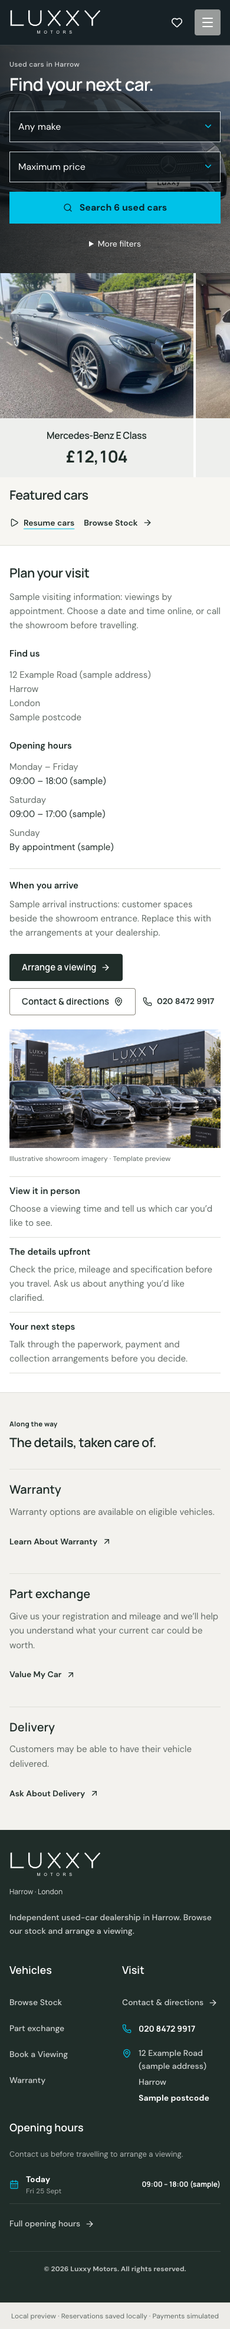
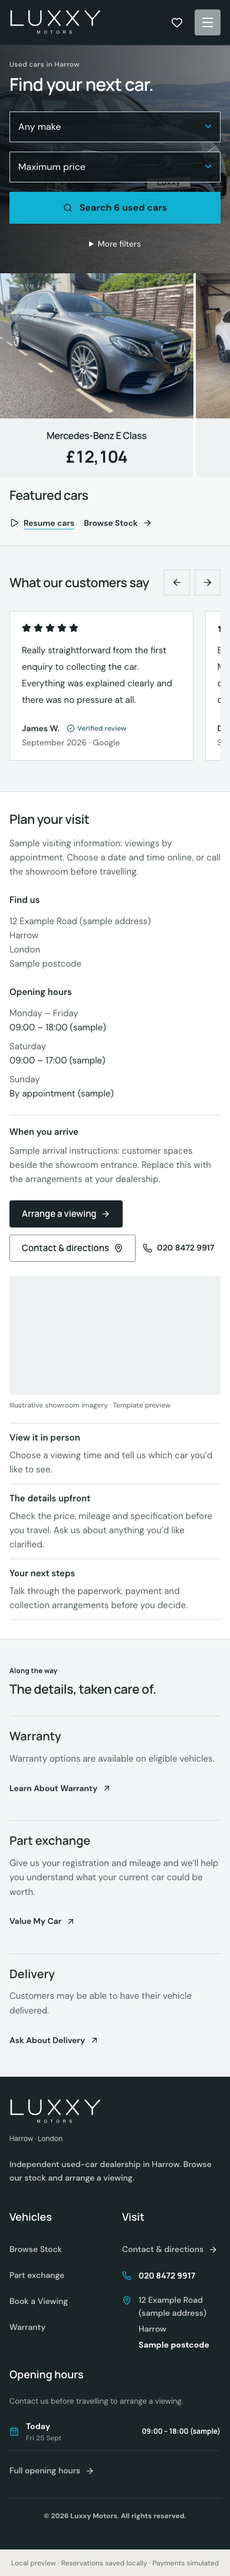
Add review verification badges and balance homepage colours

diff --git a/artifacts/luxxy-motors/src/components/reviews-settings.tsx b/artifacts/luxxy-motors/src/components/reviews-settings.tsx
@@ -12,8 +12,9 @@ export function parseReviews(text: string): Review[] {
       typeof item.review !== 'string' || !item.review.trim() || item.review.length > 5000 ||
       typeof item.name !== 'string' || !item.name.trim() || item.name.length > 150 ||
       typeof item.date !== 'string' || item.date.length > 100 ||
-      typeof item.source !== 'string' || item.source.length > 100) throw new Error(`Review ${index + 1}: supply a rating from 1–5, review text, name, date and source.`);
-    return { rating: item.rating, review: item.review, name: item.name, date: item.date, source: item.source };
+      typeof item.source !== 'string' || item.source.length > 100 ||
+      (item.verified !== undefined && typeof item.verified !== 'boolean') || (item.invited !== undefined && typeof item.invited !== 'boolean')) throw new Error(`Review ${index + 1}: supply a rating from 1–5, review text, name, date and source.`);
+    return { rating: item.rating, review: item.review, name: item.name, date: item.date, source: item.source, ...(item.verified !== undefined ? { verified: item.verified } : {}), ...(item.invited !== undefined ? { invited: item.invited } : {}) };
   });
 }
 export function ReviewsSettings({ value, onChange }: { value?: DealerPresentation; onChange: (value: DealerPresentation) => void }) {
@@ -25,7 +26,7 @@ export function ReviewsSettings({ value, onChange }: { value?: DealerPresentatio
     <h3 className="font-semibold">Customer reviews</h3>
     <label className="flex min-h-11 items-center gap-3"><input type="checkbox" checked={value?.reviewsEnabled === true} onChange={event => onChange({ ...value, reviewsEnabled: event.target.checked })} />Show customer reviews on the homepage</label>
     <label htmlFor="customer-reviews-json" className="block text-sm font-medium">Reviews JSON</label>
-    <p id="reviews-json-help" className="text-sm text-muted-foreground">Paste an array containing rating, review, name, date and source. Reviews display in this order. Apply the JSON, then save settings. Use [] to clear them.</p>
+    <p id="reviews-json-help" className="text-sm text-muted-foreground">Paste an array containing rating, review, name, date and source. Reviews display in this order. Optional verified and invited fields accept true or false. Only mark verified when confirmed. Apply the JSON, then save settings. Use [] to clear them.</p>
     <Textarea id="customer-reviews-json" aria-describedby="reviews-json-help" rows={8} value={text} onChange={event => { setText(event.target.value); setMessage(''); }} className="font-mono text-xs" />
     <Button type="button" variant="outline" onClick={() => { try { const reviews = parseReviews(text); onChange({ ...value, reviews }); setMessage(`${reviews.length} reviews applied. Save settings to keep your changes.`); } catch (error) { setMessage(error instanceof SyntaxError ? 'Invalid JSON. Check quotation marks and commas.' : (error as Error).message); } }}>Apply reviews JSON</Button>
     {message && <p role="status" className="text-sm">{message}</p>}

diff --git a/artifacts/luxxy-motors/src/components/customer-reviews.tsx b/artifacts/luxxy-motors/src/components/customer-reviews.tsx
@@ -1,5 +1,5 @@
 import { useRef, useState } from 'react';
-import { ArrowLeft, ArrowRight, Star } from 'lucide-react';
+import { ArrowLeft, ArrowRight, Star, BadgeCheck } from 'lucide-react';
 import { useDealerSettings } from '@/lib/dealer-settings-context';
 
 export function CustomerReviews() {
@@ -31,7 +31,7 @@ export function CustomerReviews() {
           </div>
           <blockquote className={`mt-4 text-[15px] leading-7 ${expanded.has(index) || review.review.length <= 180 ? '' : 'line-clamp-4'}`}>{review.review}</blockquote>
           {review.review.length > 180 && <button type="button" aria-expanded={expanded.has(index)} className="mt-1 min-h-11 self-start text-sm underline underline-offset-4" onClick={() => setExpanded(current => {const next = new Set(current); next.has(index) ? next.delete(index) : next.add(index); return next;})}>{expanded.has(index) ? 'Show less' : 'Read full review'}</button>}
-          <div className="mt-auto pt-6"><p className="text-sm font-semibold">{review.name}</p><p className="mt-1 text-sm text-muted-foreground">{review.date}{review.source && ` · ${review.source}`}</p></div>
+          <div className="mt-auto pt-6"><div className="flex flex-wrap items-center gap-x-3 gap-y-2"><p className="text-sm font-semibold">{review.name}</p>{review.verified && <span className="review-verification" title="Verification confirmed by the dealership"><BadgeCheck size={14} aria-hidden="true" />Verified review</span>}{review.invited && <span className="review-invited">Invited</span>}</div><p className="mt-1 text-sm text-muted-foreground">{review.date}{review.source && ` · ${review.source}`}</p></div>
         </li>)}
       </ul>
       {content.reviewsUrl && <a href={content.reviewsUrl} target="_blank" rel="noopener noreferrer" className="text-link mt-5">Read all reviews <ArrowRight size={16} /></a>}

diff --git a/artifacts/luxxy-motors/src/index.css b/artifacts/luxxy-motors/src/index.css
@@ -437,3 +437,29 @@ body:has(.homepage-refined) footer#contact > div > div:last-child { margin-top: 
 .review-panel { display: flex; flex-direction: column; flex: 0 0 calc((100% - 40px) / 3); scroll-snap-align: start; border: 1px solid hsl(var(--border)); padding: 24px; }
 @media (max-width: 1023px) { .review-panel { flex-basis: calc((100% - 20px) / 2); } }
 @media (max-width: 639px) { .review-panel { flex-basis: 88%; padding: 20px; } }
+
+/* Balanced homepage palette: cool charcoal, clean white and restrained cyan. */
+body:has(.homepage-refined) header,
+body:has(.homepage-refined) footer,
+.homepage-refined {
+ --primary: 195 22% 13%;
+ --foreground: 195 22% 13%;
+ --card-foreground: 195 22% 13%;
+ --muted-foreground: 195 7% 36%;
+ --background: 195 14% 97%;
+ --secondary: 195 14% 94%;
+ --border: 195 10% 85%;
+ --accent: 190 86% 44%;
+ --accent-foreground: 195 35% 10%;
+}
+.homepage-refined .customer-reviews { background: #f3f6f6; }
+.homepage-refined .review-panel { background: #fff; }
+.homepage-refined .rolling-stock .vehicle-card,
+.homepage-refined .rolling-stock .vehicle-card-details { background: #eef2f2; }
+.homepage-refined .home-services { background: #f3f6f6; }
+.homepage-refined .hero-search-submit { background: hsl(var(--accent)); color: hsl(var(--accent-foreground)); }
+.homepage-refined .hero-search-submit:hover { background: #25c4dc; }
+.homepage-refined .text-link:hover { text-decoration-color: hsl(var(--accent)); }
+.review-verification { display: inline-flex; align-items: center; gap: 4px; color: #285e66; font-size: 12px; font-weight: 500; }
+.review-invited { border-left: 1px solid hsl(var(--border)); padding-left: 8px; color: hsl(var(--muted-foreground)); font-size: 12px; }
+body:has(.homepage-refined) header.stock-home-header { --primary: 0 0% 100%; --primary-foreground: 195 22% 13%; }

diff --git a/artifacts/luxxy-motors/src/components/customer-reviews.test.tsx b/artifacts/luxxy-motors/src/components/customer-reviews.test.tsx
@@ -13,11 +13,13 @@ it('does not show an empty or disabled reviews section', () => {
 });
 it('preserves long reviews with expansion and no fabricated aggregate or link', () => {
   const review = 'Excellent service. '.repeat(20);
-  state.presentation = { reviewsEnabled: true, reviews: [{ rating: 4, review, name: 'Customer', date: 'September 2026', source: 'Google' }] };
+  state.presentation = { reviewsEnabled: true, reviews: [{ rating: 4, review, name: 'Customer', date: 'September 2026', source: 'Google', verified: true, invited: true }] };
   render(<CustomerReviews />);
   expect(screen.getByRole('img', { name: '4 out of 5 stars' })).toBeInTheDocument();
   fireEvent.click(screen.getByRole('button', { name: 'Read full review' }));
   expect(screen.getByRole('button', { name: 'Show less' })).toHaveAttribute('aria-expanded', 'true');
   expect(screen.queryByRole('link')).toBeNull();
+  expect(screen.getByText('Verified review')).toBeInTheDocument();
+  expect(screen.getByText('Invited')).toBeInTheDocument();
   expect(screen.getByText(review.trim())).toBeInTheDocument();
 });

diff --git a/artifacts/luxxy-motors/src/components/reviews-settings.test.tsx b/artifacts/luxxy-motors/src/components/reviews-settings.test.tsx
@@ -1,7 +1,7 @@
 import { describe, expect, it } from 'vitest';
 import { parseReviews } from './reviews-settings';
 describe('review import', () => {
-  const review = { rating: 5, review: 'Helpful team.', name: 'J.', date: 'September 2026', source: 'Google' };
+  const review = { rating: 5, review: 'Helpful team.', name: 'J.', date: 'September 2026', source: 'Google', verified: true, invited: true };
   it('preserves original wording and allows clearing', () => {
     expect(parseReviews(JSON.stringify([review]))).toEqual([review]);
     expect(parseReviews('[]')).toEqual([]);
@@ -9,6 +9,7 @@ describe('review import', () => {
   it('rejects malformed, incomplete or out-of-range reviews', () => {
     expect(() => parseReviews('{')).toThrow();
     expect(() => parseReviews('{}')).toThrow();
+    expect(() => parseReviews(JSON.stringify([{ ...review, verified: 'yes' }]))).toThrow();
     expect(() => parseReviews(JSON.stringify([{ ...review, rating: 6 }]))).toThrow();
     expect(() => parseReviews(JSON.stringify([{ ...review, review: ' ' }]))).toThrow();
   });

diff --git a/artifacts/luxxy-motors/tests/customer-reviews.spec.ts b/artifacts/luxxy-motors/tests/customer-reviews.spec.ts
@@ -8,6 +8,8 @@ for (const width of [390, 1440]) {
     const section = page.getByRole('region', { name: 'What our customers say' });
     await section.scrollIntoViewIfNeeded();
     await expect(section.getByRole('listitem')).toHaveCount(20);
+    await expect(section.getByText('Verified review', { exact: true })).toHaveCount(20);
+    await expect(section.getByText('Invited', { exact: true })).toHaveCount(4);
     await expect(section.getByText('James W.', { exact: true })).toBeVisible();
     await expect(section.getByRole('link')).toHaveCount(0);
     const list = section.getByRole('list');

diff --git a/docs/ui-redesign.md b/docs/ui-redesign.md
@@ -693,3 +693,12 @@ Added a 320ms crossfade with a subtle 2.5% settling zoom to the main and fullscr
 - Added an enable switch and validated JSON editor under dealership presentation settings. Apply JSON, then Save settings. The existing optional reviews-page link can be added later.
 - Extended the existing settings JSON contract with reviewsEnabled and up to 100 validated reviews; omitted fields survive older-client saves. No database schema/migration or production changes.
 - Validation: 176 frontend tests, nine backend settings tests, four homepage browser checks and two review browser checks passed. Workspace typechecking/build passed (existing chunk-size warning). Desktop/mobile review screenshots saved under docs/screenshots/customer-reviews.
+
+
+## Review badges and homepage colour balance — 25 September 2026
+- Added optional verified/invited boolean fields to review settings and preserved them through JSON import and generated API validation.
+- All 20 reviews marked verified following the owner's confirmation. Only Sarah K. (3), Adam P. (7), Aisha N. (12), and David J. (19) marked invited.
+- Compact verification icon/label beside reviewer names; invitation status remains separate. Verification is dealership-confirmed, not presented as Google certification.
+- Balanced homepage colours around cool charcoal, white panels, consistent pale grey supporting sections and restrained cyan controls. Kept the dark header's inverse text colours for readability.
+- Updated local preview settings only; no production data, deployment or migrations touched.
+- Passed 176 frontend tests, nine backend settings tests, six browser checks, workspace typechecking and builds. Existing bundle-size advisory remains. Reviewed fresh desktop/mobile screenshots.
